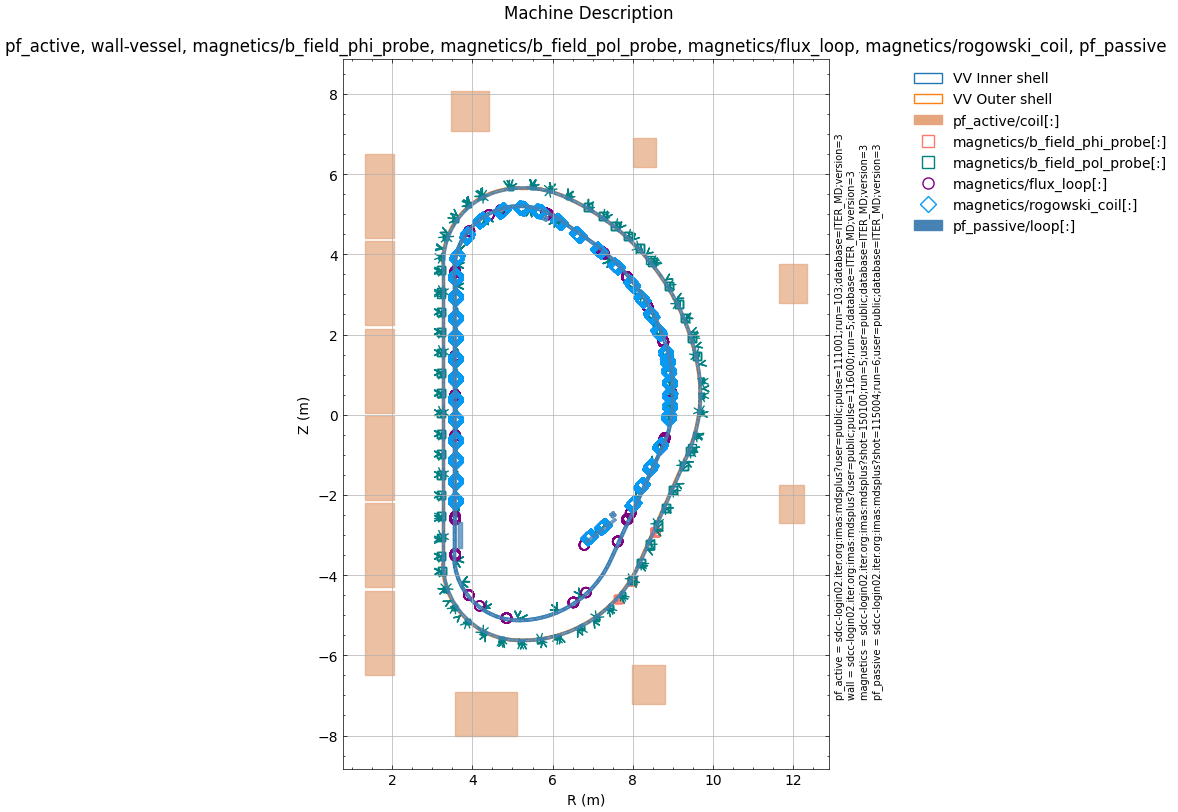
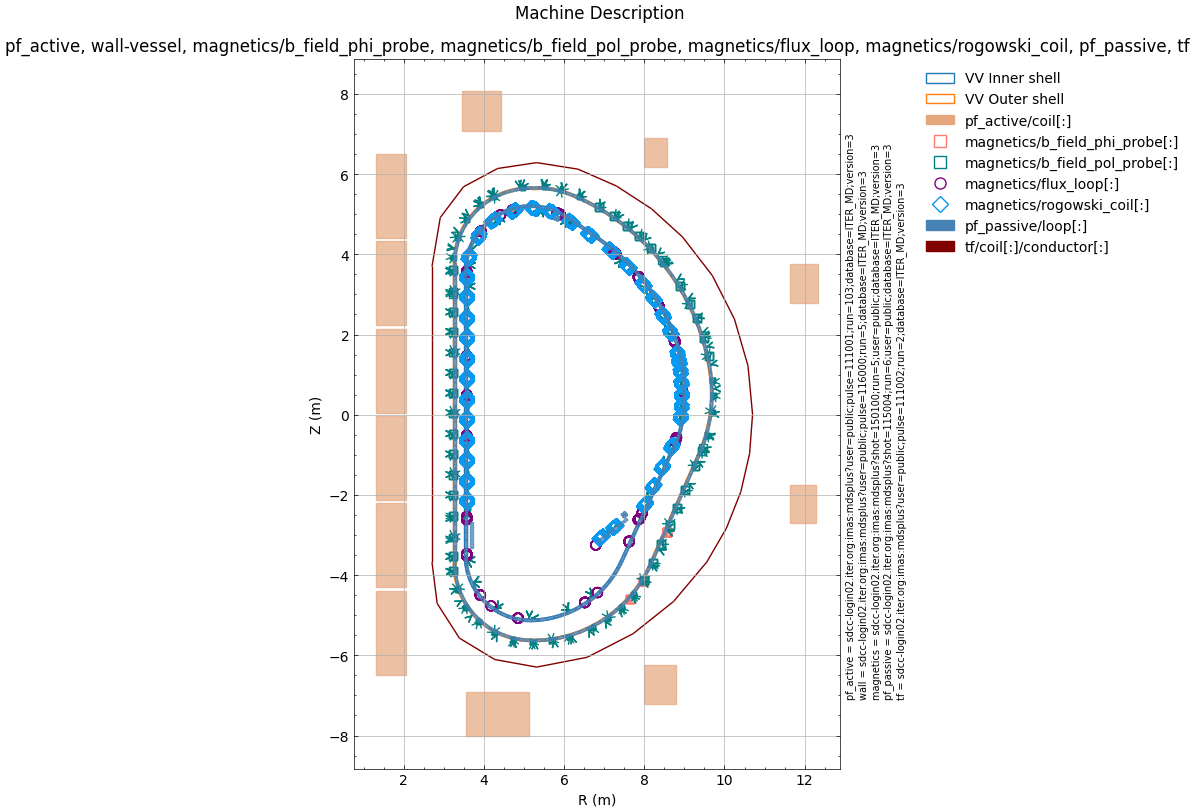
added tf representation, support for round brackets, and default it shows wall-limiter for wall

diff --git a/docs/source/plotmachinedescription.rst b/docs/source/plotmachinedescription.rst
@@ -39,7 +39,8 @@ with options to show labels and save figures.
       $ plotmachinedescription --uri "imas:mdsplus?user=public;pulse=111001;run=103;database=ITER_MD;version=3#pf_active" 
       "imas:mdsplus?user=public;pulse=116000;run=5;database=ITER_MD;version=3#wall/description_2d[0]/vessel/unit[0:2]" 
       "imas:mdsplus?shot=150100;run=5;user=public;database=ITER_MD;version=3#magnetics" 
-      "imas:mdsplus?shot=115004;run=6;user=public;database=ITER_MD;version=3#pf_passive" --dd-update
+      "imas:mdsplus?shot=115004;run=6;user=public;database=ITER_MD;version=3#pf_passive" 
+      "imas:mdsplus?user=public;pulse=111002;run=2;database=ITER_MD;version=3#tf" --dd-update
       $ plotmachinedescription --uri "imas:mdsplus?user=public;pulse=150100;run=5;database=ITER_MD;version=3#magnetics/flux_loop" --show-labels
       $ plotmachinedescription --uri "imas:mdsplus?user=public;pulse=150100;run=5;database=ITER_MD;version=3#magnetics/flux_loop[1:4]" --show-labels
       $ plotmachinedescription --uri "imas:mdsplus?user=public;pulse=116000;run=5;database=ITER_MD;version=3#wall/description_2d[0]/vessel/unit[0:2]" 
